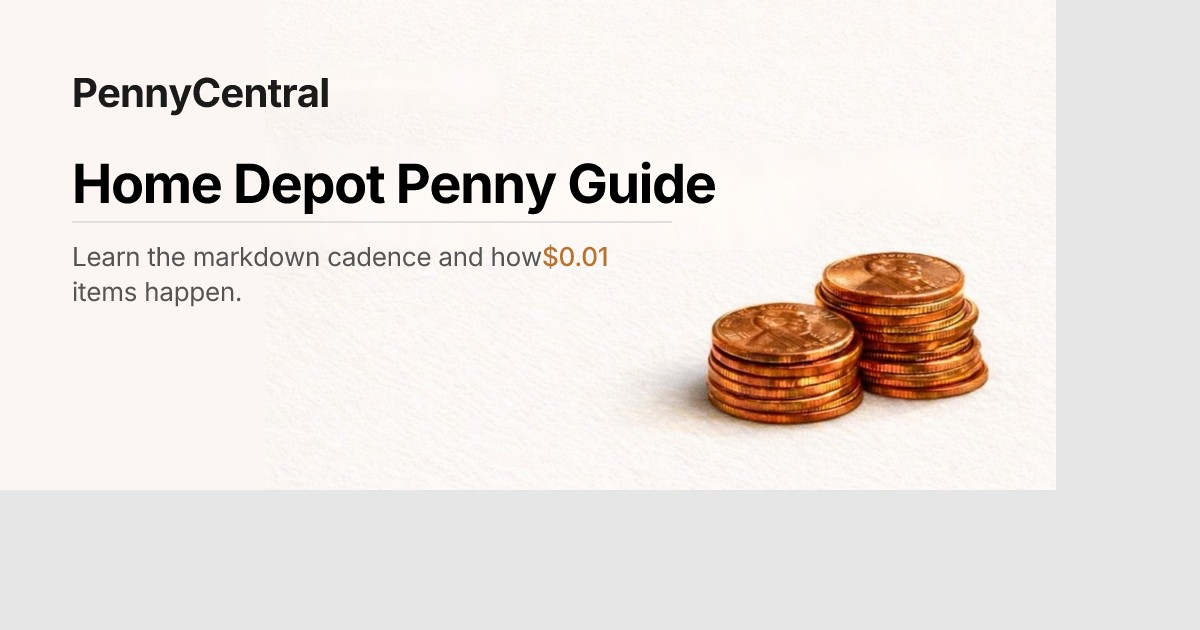
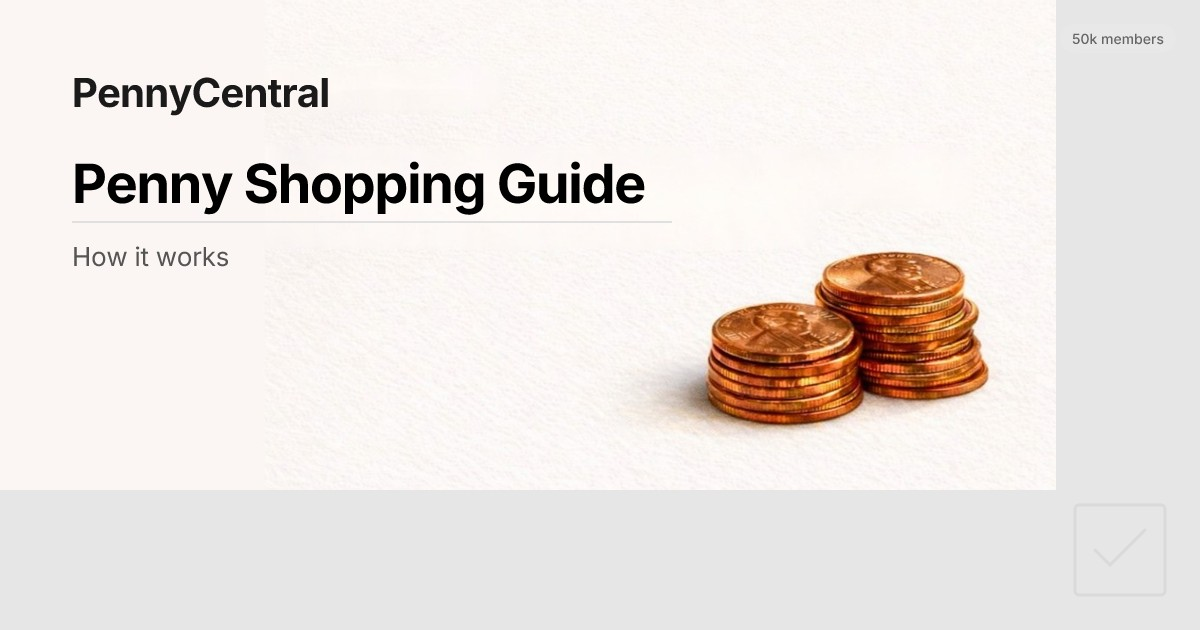
Copy: standardize timing to 'usually within about 5 minutes' and update community size to 50k; regenerate OG images

diff --git a/lib/constants.ts b/lib/constants.ts
@@ -8,16 +8,16 @@
 // ============================================
 
 /** Raw member count number (for calculations if needed) */
-export const COMMUNITY_MEMBER_COUNT = 47000
+export const COMMUNITY_MEMBER_COUNT = 50000
 
 /** Display string for member count (use this in JSX) */
-export const COMMUNITY_MEMBER_COUNT_DISPLAY = "47,000+ hunters"
+export const COMMUNITY_MEMBER_COUNT_DISPLAY = "50,000"
 
 /** Badge text for OG images (single source of truth) */
-export const MEMBER_COUNT_BADGE_TEXT = "47K+ Members"
+export const MEMBER_COUNT_BADGE_TEXT = "50k members"
 
 /** Raw member count for badge (alternative for calculations) */
-export const MEMBER_COUNT_RAW = 47000
+export const MEMBER_COUNT_RAW = 50000
 
 /** Facebook group URL */
 export const FACEBOOK_GROUP_URL = "https://www.facebook.com/groups/homedepotonecent"

diff --git a/app/page.tsx b/app/page.tsx
@@ -35,7 +35,7 @@ export const metadata: Metadata = {
       "Live community reports, updated as sightings come in. See what's hitting stores now.",
     images: [
       {
-        url: "/api/og?page=homepage",
+        url: "https://www.pennycentral.com/api/og?page=homepage",
         width: 1200,
         height: 630,
       },
@@ -46,7 +46,7 @@ export const metadata: Metadata = {
     title: `Live $0.01 Finds From ${MEMBER_COUNT_BADGE_TEXT}`,
     description:
       "Live community reports, updated as sightings come in. See what's hitting stores now.",
-    images: ["/api/og?page=homepage"],
+    images: ["https://www.pennycentral.com/api/og?page=homepage"],
   },
 }
 

diff --git a/PROJECT_ROADMAP.md b/PROJECT_ROADMAP.md
@@ -16,7 +16,7 @@ Agents: keep this file short and useful. Update it when you actually finish or s
 
 **What:** PennyCentral.com - a utility/reference guide for finding Home Depot clearance items marked to $0.01, powered by community intelligence.
 
-**Who:** Members of the "Home Depot One Cent Items" Facebook community (48,000 members and growing). Savvy shoppers who want actionable intel, not hype.
+**Who:** Members of the "Home Depot One Cent Items" Facebook community (50,000 members and growing). Savvy shoppers who want actionable intel, not hype.
 
 **Core value:** Education on how clearance works, tools to find stores and plan trips, realistic guidance on whether items are worth buying, AND a real-time community-powered list of reported penny finds.
 
@@ -59,7 +59,7 @@ Agents: keep this file short and useful. Update it when you actually finish or s
 
 **Why it matters:**
 
-- Converts 48,000 community members into data sources
+- Converts 50,000 community members into data sources
 - Creates a real-time, crowd-sourced intelligence feed
 - Dramatically increases site value and stickiness
 - Requires no founder time to manage (just Google Sheet moderation)

diff --git a/.ai/CONTEXT.md b/.ai/CONTEXT.md
@@ -34,7 +34,7 @@ More reports = more value = more users = more reports
 
 ### What Facebook CAN'T Do (Our Moat)
 
-The 48K-member Facebook group is valuable but has structural limitations:
+The 50K-member Facebook group is valuable but has structural limitations:
 
 - Posts get buried within hours
 - No way to aggregate reports by SKU
@@ -95,7 +95,7 @@ This is the primary “zoomed-out” framing that prevents local optimizations f
 
 ## Mission
 
-PennyCentral.com is the companion utility site for the **“Home Depot One Cent Items”** Facebook community (~48,000 members).  
+PennyCentral.com is the companion utility site for the **“Home Depot One Cent Items”** Facebook community (~50,000 members).  
 The mission is simple: **turn scattered penny‑hunting knowledge into a fast, reliable field guide + living intel feed.**
 
 ---

diff --git a/README.md b/README.md
@@ -1,6 +1,6 @@
 # Penny Central
 
-The official companion site for the "Home Depot One Cent Items" Facebook community (48,000 members and growing). A utility/reference guide for finding Home Depot clearance items marked to $0.01.
+The official companion site for the "Home Depot One Cent Items" Facebook community (50,000 members and growing). A utility/reference guide for finding Home Depot clearance items marked to $0.01.
 
 **Live:** https://pennycentral.com
 
@@ -200,7 +200,7 @@ public/                 # Static assets
 
 ## Community
 
-- **Facebook Group:** Home Depot One Cent Items (48k members)
+- **Facebook Group:** Home Depot One Cent Items (50k members)
 - **Purpose:** Educational resource for penny hunting community
 - **Penny List Form:** Collects verified penny finds from community members
 

diff --git a/.ai/GROWTH_STRATEGY.md b/.ai/GROWTH_STRATEGY.md
@@ -19,7 +19,7 @@
 
 ### Facebook Group Relationship ⚠
 
-**CRITICAL:** Cade promised a friend (group admin) the website would NOT compete with or cannibalize the Facebook group "Home Depot One Cent Items" (48,000 members).
+**CRITICAL:** Cade promised a friend (group admin) the website would NOT compete with or cannibalize the Facebook group "Home Depot One Cent Items" (50,000 members).
 
 **Symbiosis Goal:**
 
